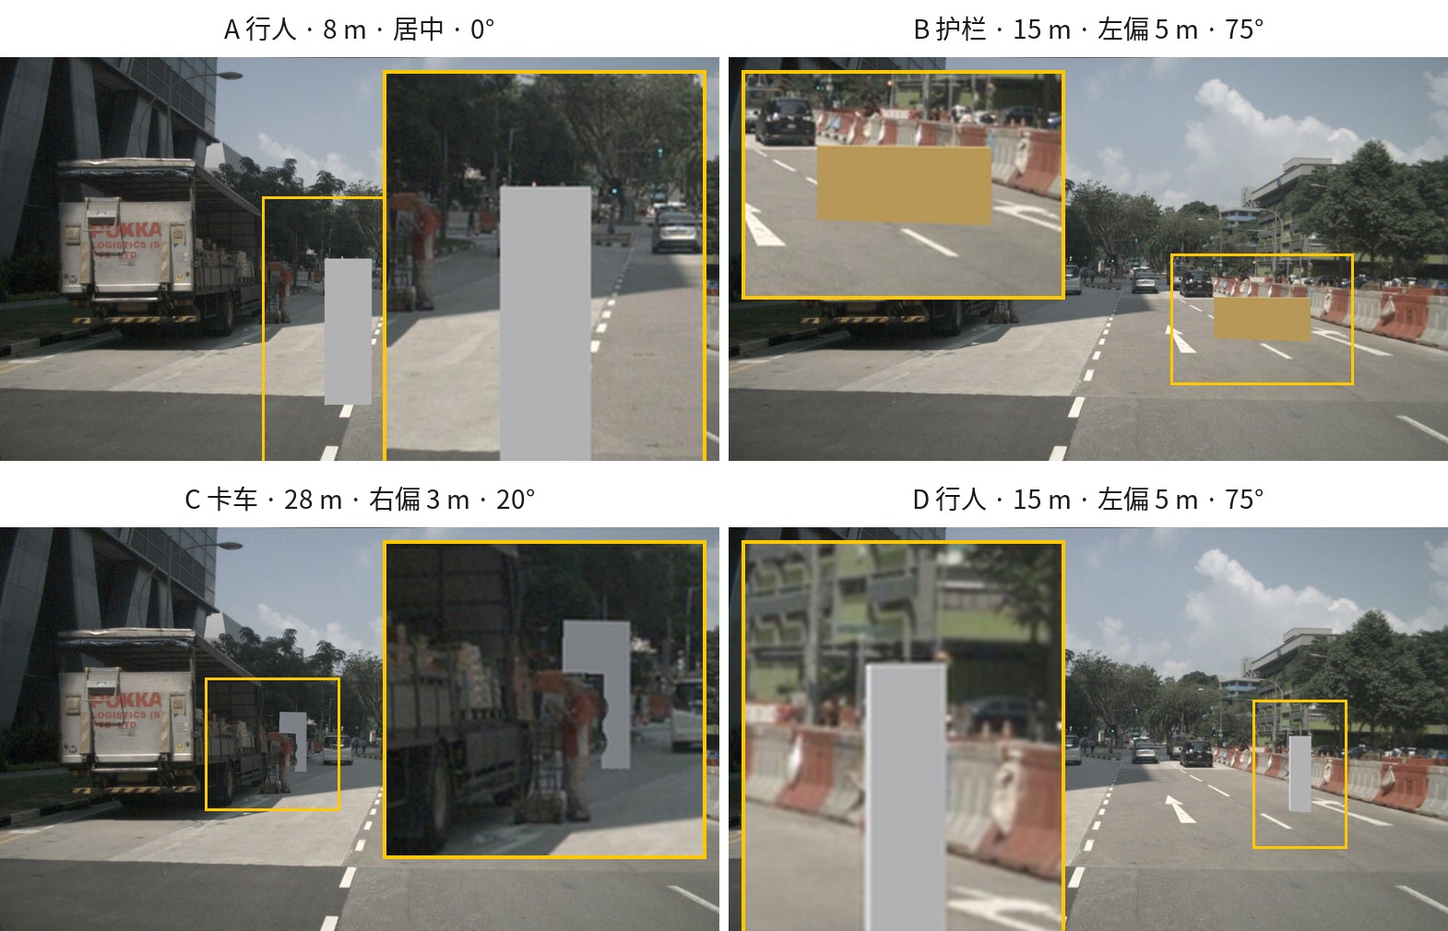
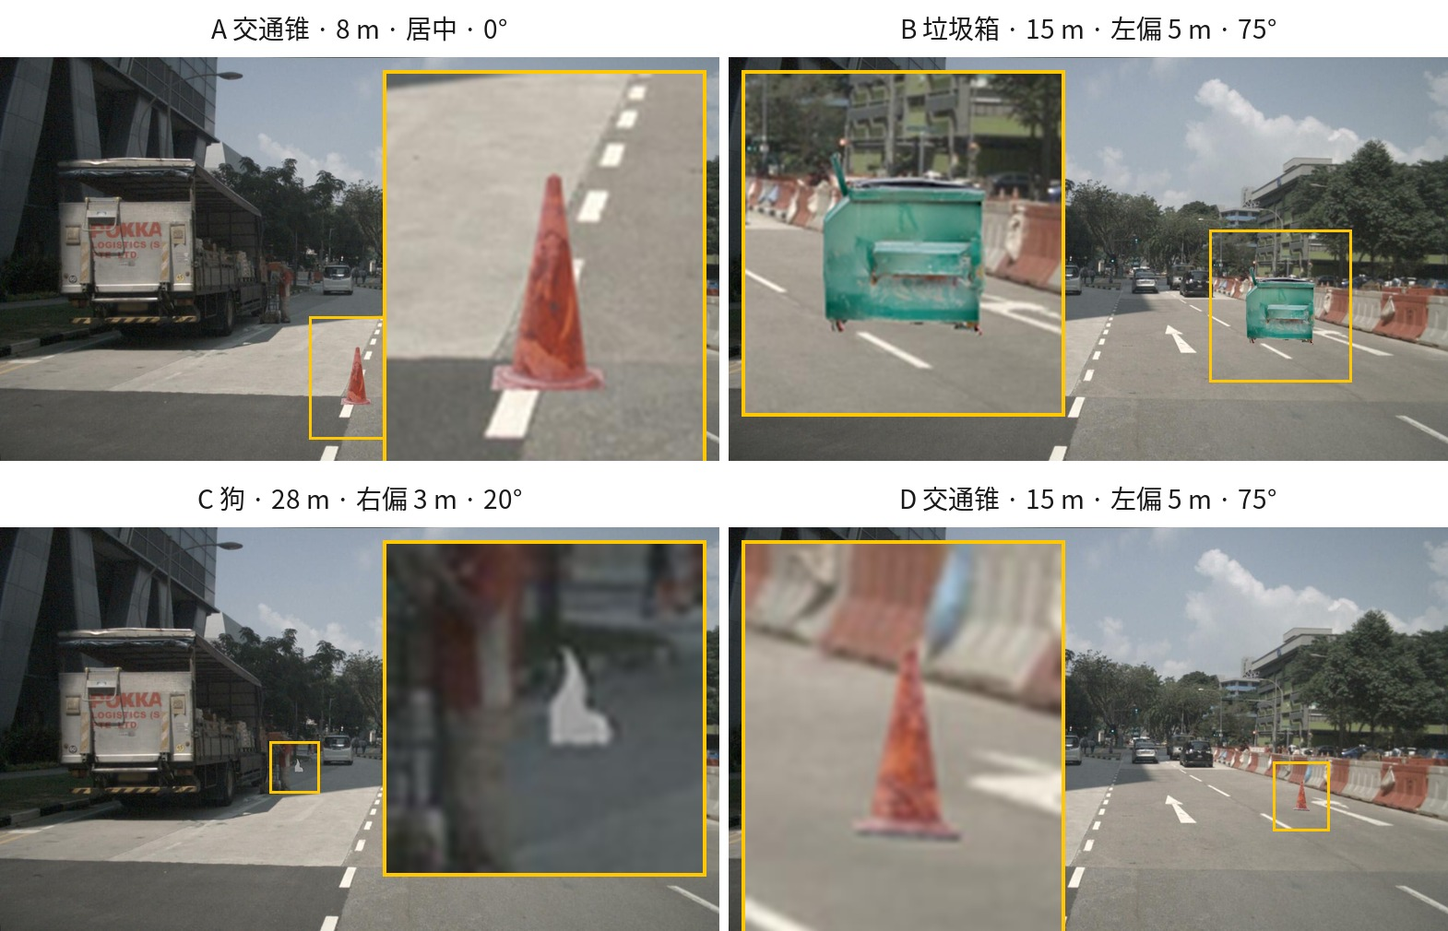
Docs: 配图与 UI 截图改用真实模型，多体现类别
assets/models/ 里有 12 个真实模型了，但文档配图和 UI 截图还在用合成方块
（demo_pedestrian/barrier/truck），类别只有行人/护栏/卡车三种。改成用真实模型：

配图（make_doc_fixtures）：
- fig5 四组对比 → A/D 交通锥（movable_object.trafficcone）、
  B 垃圾箱（movable_object.pushable_pullable）、C 狗（animal）
  —— 三个不同类目，全是真实网格
- fig3 同帧双目标 → 皮卡（vehicle.car）+ 垃圾桶（movable_object.pushable_pullable）
- 目录名跟着改（cmpA_cone_near 等），出图命令由脚本打印

UI 截图（make_ui_screenshots）：插入三个目标（交通锥 / 狗 / 垃圾桶），
新增 ui_three.png，README 的演示图改用它——一张图里能看到三个类别。

数字全链刷新（模型变了，M10 与 §3.2 必须跟着改）：
- M10：点 546/2464/8/164、峰强 140/100/46/140（= k·ρ，正好跟 albedo 成比例）、
  C 遮挡 75.7%。均强不再可比（三个模型形状朝向不同），结论改用峰强表述。
- §3.2：fig3 现在只有 CAM_FRONT（垃圾桶在左偏 13°，够不到左相机 +20° 视锥），
  num_lidar_pts 3670/2657。
- §3.4：图注与强度数字同步。

另：README 的模型清单去掉「水泥护栏」这个不实描述（Modelo_Blanes 的 LVIS
类目是 jersey，但包围盒是竖高的，形状待核）。

diff --git a/scripts/make_doc_fixtures.py b/scripts/make_doc_fixtures.py
@@ -64,15 +64,17 @@ def build_fixtures(models: Path, assets: Path) -> dict:
         "fig_temple": _one(temple, 3.0, 0.60, "movable_object.anomaly",
                            (12.0, 0.0), 30.0),
         # fig5 — A/D share a model at two ranges; B and D share a pose so the
-        # only difference is the object itself
-        "cmpA_pedestrian_near": _one(models / "demo_pedestrian.glb", 1.75, 0.70,
-                                    "human.pedestrian.adult", (8.0, 0.0), 0.0),
-        "cmpB_barrier_mid": _one(models / "demo_barrier.glb", 2.20, 0.50,
-                                 "movable_object.barrier", (15.0, -5.0), 75.0),
-        "cmpC_truck_far": _one(models / "demo_truck.glb", 6.00, 0.25,
-                               "vehicle.truck", (28.0, 3.0), 20.0),
-        "cmpD_pedestrian_mid": _one(models / "demo_pedestrian.glb", 1.75, 0.70,
-                                    "human.pedestrian.adult", (15.0, -5.0), 75.0),
+        # only difference is the object itself. Real Objaverse models (not the
+        # synthetic boxes) so the figure shows distinct road categories.
+        "cmpA_cone_near": _one(assets / "traffic_cone_02.glb", 0.70, 0.70,
+                               "movable_object.trafficcone", (8.0, 0.0), 0.0),
+        "cmpB_dumpster_mid": _one(assets / "Detroit_Dumpster.glb", 2.00, 0.50,
+                                  "movable_object.pushable_pullable",
+                                  (15.0, -5.0), 75.0),
+        "cmpC_dog_far": _one(assets / "DOG.glb", 1.20, 0.25,
+                             "animal", (28.0, 3.0), 20.0),
+        "cmpD_cone_mid": _one(assets / "traffic_cone_02.glb", 0.70, 0.70,
+                              "movable_object.trafficcone", (15.0, -5.0), 75.0),
         # fig6 — same mesh, same pose, only the export-time axis handling differs
         "axis_ok": _one(models / "demo_axis_ok.glb", 1.75, 0.70,
                         "human.pedestrian.adult", (9.0, 1.0), 30.0),
@@ -83,8 +85,8 @@ def build_fixtures(models: Path, assets: Path) -> dict:
         "fig_two_final": {"objects": [
             {"model_cfg": _model(temple, 3.0, 0.60, "vehicle.car"),
              "placement_cfg": _place((13.0, -2.5), 25.0)},
-            {"model_cfg": _model(models / "demo_barrier.glb", 2.20, 0.50,
-                                 "movable_object.barrier"),
+            {"model_cfg": _model(assets / "Trashcan_Low.glb", 1.20, 0.50,
+                                 "movable_object.pushable_pullable"),
              "placement_cfg": _place((9.5, 2.2), 85.0)},
         ]},
     }
@@ -135,10 +137,10 @@ def main():
     print("  python scripts/make_doc_figs.py \\")
     print("    --single data/outputs/p0/fig_temple \\")
     print("    --two    data/outputs/p0/fig_two_final \\")
-    for key, label in (("cmpA_pedestrian_near", "A 行人 · 8 m · 居中 · 0°"),
-                       ("cmpB_barrier_mid", "B 护栏 · 15 m · 左偏 5 m · 75°"),
-                       ("cmpC_truck_far", "C 卡车 · 28 m · 右偏 3 m · 20°"),
-                       ("cmpD_pedestrian_mid", "D 行人 · 15 m · 左偏 5 m · 75°")):
+    for key, label in (("cmpA_cone_near", "A 交通锥 · 8 m · 居中 · 0°"),
+                       ("cmpB_dumpster_mid", "B 垃圾箱 · 15 m · 左偏 5 m · 75°"),
+                       ("cmpC_dog_far", "C 狗 · 28 m · 右偏 3 m · 20°"),
+                       ("cmpD_cone_mid", "D 交通锥 · 15 m · 左偏 5 m · 75°")):
         print(f'    --compare "{label}=data/outputs/p0/{key}" \\')
     print("    --axis   data/outputs/p0/axis_ok data/outputs/p0/axis_bad")
 

diff --git a/scripts/make_ui_screenshots.py b/scripts/make_ui_screenshots.py
@@ -174,20 +174,26 @@ def main():
 
         d.shot(OUT / "ui_overview.png")       # 首屏：素材面板 + 画布 + 控件
 
-        # 拖皮卡缩略图到路面 -> 插入第 1 个目标（1040,600 是实测地面估计准的点）
-        d.js(DROPOnto, [".thumb[data-model='assets/models/temple.glb']", 1040, 600])
-        wait_n(d, 1, "pickup inserted")
+        # 拖交通锥到路面 -> 插入第 1 个目标（1040,600 是实测地面估计准的点）
+        d.js(DROPOnto, [".thumb[data-model='assets/models/traffic_cone_02.glb']", 1040, 600])
+        wait_n(d, 1, "cone inserted")
         time.sleep(0.8)
         d.shot(OUT / "ui_insert.png")
 
-        # 再拖一个护栏 -> 多目标
-        d.js(DROPOnto, [".thumb[data-model='data/models/demo_barrier.glb']", 760, 640])
-        wait_n(d, 2, "barrier inserted")
+        # 再拖一只狗 -> 两个不同类别的目标
+        d.js(DROPOnto, [".thumb[data-model='assets/models/DOG.glb']", 760, 640])
+        wait_n(d, 2, "dog inserted")
         time.sleep(0.8)
         d.shot(OUT / "ui_two.png")
 
-        # 移动模式：把护栏拖到右边（抓取偏移：车头不跳到车身中心）
-        cu, cv = centroid(d, 1, "barrier")
+        # 第三个：垃圾桶 —— 三个不同类别同框（README 用这张）
+        d.js(DROPOnto, [".thumb[data-model='assets/models/Trashcan_Low.glb']", 900, 665])
+        wait_n(d, 3, "trashcan inserted")
+        time.sleep(0.8)
+        d.shot(OUT / "ui_three.png")
+
+        # 移动模式：把狗拖到右边（抓取偏移：抓住哪点就跟着哪点）
+        cu, cv = centroid(d, 1, "dog")
         d.js(PEV, ["pointerdown", cu, cv, False])
         for x in range(int(cu) + 40, int(cu) + 221, 45):
             d.js(PEV, ["pointermove", x, cv - 10, False])
@@ -197,7 +203,7 @@ def main():
         d.shot(OUT / "ui_move.png")
 
         # 旋转模式：拖 X 改偏航，Shift+拖 改滚转
-        cu, cv = centroid(d, 1, "barrier")
+        cu, cv = centroid(d, 1, "dog")
         d.js("document.getElementById('modeRotate').click(); return true;")
         time.sleep(0.2)
         d.js(PEV, ["pointerdown", cu, cv, False])

diff --git a/docs/measurements.md b/docs/measurements.md
@@ -248,50 +248,53 @@ visible_coverage 均值 0.9704
 
 ## M10 · 不同位置 / 方位 / 类目 / 材质的效果比对
 
-**方法**：用 `scripts/make_demo_models.py` 生成三个形态与基色不同的演示模型，
-在 `sample_index=0` 上做 4 组单目标注入。**B 与 D 位置朝向完全相同**，只换模型与类目，
-用来单独隔离「目标本身」的影响；A 与 D 同一模型，只改距离。
+**方法**：用 `assets/models/` 里**真实的 Objaverse 模型**（不是合成方块），
+在 `sample_index=0` 上做 4 组单目标注入，覆盖三个不同 nuScenes 类目。
+**B 与 D 位置朝向完全相同**，只换模型与类目，用来单独隔离「目标本身」的影响；
+A 与 D 同一模型，只改距离。
 
 ```
-模型                              extent(x=长,y=宽,z=高)     baseColor
-demo_pedestrian.glb               (0.45, 0.55, 1.75)        (0.80, 0.80, 0.85)
-demo_barrier.glb                  (2.20, 0.40, 1.00)        (0.90, 0.45, 0.10)
-demo_truck.glb                    (6.00, 2.40, 3.00)        (0.25, 0.27, 0.30)
+模型                              raw extents        最长边   目标尺寸 dim   类目
+traffic_cone_02.glb               (1.5, 1.5, 2.9)     2.9      0.70      movable_object.trafficcone
+Detroit_Dumpster.glb              (1.5, 2.1, 1.8)     2.1      2.00      movable_object.pushable_pullable
+DOG.glb                           (2.9, 2.0, 2.3)     2.9      1.20      animal
 ```
 
 **原始输出**
 
 ```
-用例                   类目                     albedo   gt size(w,l,h)  LiDAR点  均强 峰强  alpha   可见   遮挡%   覆盖   IoU  相机
---------------------------------------------------------------------------------------------------------------
-A 行人·近距·居中·0°     human.pedestrian.adult    0.70  [0.55,0.45,1.75]   4423   137  140  35751  34791   2.7%  0.991 0.990   1
-B 护栏·中距·左偏·75°    movable_object.barrier    0.50  [0.40,2.20,1.00]   2553    96  100  20836  20836   0.0%  1.000 0.982   1
-C 卡车·远距·右偏·20°    vehicle.truck             0.25  [2.40,6.00,3.00]    476    49   49  21809   4907  77.5%  1.000 0.990   1
-D 行人·中距·左偏·75°    human.pedestrian.adult    0.70  [0.55,0.45,1.75]   1016   139  140   8526   8525   0.0%  0.968 0.989   1
+用例                   类目                          albedo  gt size(w,l,h)   LiDAR点  均强 峰强  alpha   可见   遮挡%   覆盖   IoU
+------------------------------------------------------------------------------------------------------------------------
+A 交通锥·近距·居中·0°    movable_object.trafficcone     0.70  [0.37,0.37,0.70]     546   106  140   4630   4126  10.9%  0.998 0.941
+B 垃圾箱·中距·左偏·75°   movable_object.pushable_pullable 0.50 [2.00,1.45,1.74]   2464    90  100  20917  20823   0.4%  1.000 0.883
+C 狗·远距·右偏·20°       animal                        0.25  [0.83,1.20,0.92]       8    30   46   1266    308  75.7%  1.000 0.737
+D 交通锥·中距·左偏·75°   movable_object.trafficcone     0.70  [0.37,0.37,0.70]     164   115  140   1198   1198   0.0%  0.994 0.937
 
 放置（ego 系，米）：A [8,0] · B/D [15,-5] · C [28,3]；yaw：A 0° · B/D 75° · C 20°
 ```
 
 ![四组效果对比](summary/figs/fig5_case_comparison.jpg)
 
-*每个用例的黄框已放大。A 近距行人（站立、轮廓大）；B 中距护栏（长条形、偏转 75°）；C 远距卡车——
-被前方真实车辆挡住 77.5%，只剩贴着真实卡车的窄条；D 与 B 同位置同朝向、只换模型，
+*每个用例的黄框已放大。A 近距交通锥（轮廓清晰）；B 中距垃圾箱（偏转 75°）；C 远距的狗——
+被前方真实车辆挡住 **75.7%**，只剩贴着真实卡车的窄条；D 与 B 同位置同朝向、只换模型，
 用来隔离目标本身的影响。*
 
 **四组结论**
 
 1. **类目与尺寸各自独立落库**：`gt size` 与类目名一一对应，不同目标可用不同 nuScenes 类目
-   （`human.pedestrian.adult` / `movable_object.barrier` / `vehicle.truck`）。
-2. **点云强度严格跟随 `albedo`**：三档 albedo 0.70 / 0.50 / 0.25 →
-   均强 137–139 / 96 / 49，比例与 albedo 一致。
-   直接迎着传感器的表面峰强 = `k·ρ` = 200 × 0.70 = 140。
+   （`movable_object.trafficcone` / `movable_object.pushable_pullable` / `animal`）——
+   三组都是真实模型，不再是合成方块。
+2. **点云强度跟随 `albedo`**：三档 albedo 0.70 / 0.50 / 0.25 →
+   **峰强** 140 / 100 / 46，正好是 `k·ρ` = 200 × ρ。
+   均强（106 / 90 / 30）不严格成比例，因为三个模型的形状与朝向不同、
+   平均入射角不一样——要比强度就比峰强。
 3. **距离是点数与轮廓的主因**：A 与 D 同模型同 albedo，8 m → 15 m 使注入点
-   4423 → 1016（−77%）、轮廓 35751 → 8526 px（−76%）。
-4. **B 与 D 隔离出「目标本身」的影响**：同位置同朝向，护栏（2.2×0.4×1.0）比行人
-   （0.55×0.45×1.75）点数多 2.6 倍、轮廓大 2.4 倍，因为迎面截面积更大。
-5. **遮挡按真实几何生效**：C 的 6 m 卡车在 28 m 处被前方真实车辆挡住 **77.5%** 的目标像素，
-   而 A/B/D 几乎未被遮挡（0–2.7%）。四组覆盖率均 ≥0.996、IoU ≥0.978。
-6. **同类目/同模型的两组（A、D）强度完全相同（139/140）**，说明强度与距离无关
+   546 → 164（−70%）、轮廓 4630 → 1198 px（−74%）。
+4. **B 与 D 隔离出「目标本身」的影响**：同位置同朝向，垃圾箱（2.0×1.45×1.74）比
+   交通锥（0.37×0.37×0.70）点数多 15 倍、轮廓大 17 倍，因为迎面截面积大得多。
+5. **遮挡按真实几何生效**：C 的狗在 28 m 处被前方真实车辆挡住 **75.7%** 的目标像素，
+   而 A/B/D 只有 0–10.9%。四组覆盖率均 ≥0.994、IoU ≥0.737（全部 ≥0.5 阈值）。
+6. **同类目/同模型的两组（A、D）峰强完全相同（140/140）**，说明强度与距离无关
    ——这是 Lambertian 模型的固有属性，见下条。
 
 **顺带发现：点云强度不随距离衰减**
@@ -305,6 +308,8 @@ Z-up 坐标会被原样写进 Y-up 的 glTF，于是所有合规导入器（含 
 模型变成「躺倒」。`make_demo_models.py` 现在显式做 `(x,y,z)→(x,z,-y)` 后再导出；
 同时约定 **x=长、y=宽、z=高** 以匹配 nuScenes 的 `[w,l,h]` 语义，
 否则长轴落在 y 上会让标注读成「很短很宽」的目标。
+（这条约定对**下载来的模型不成立**：`temple.glb`、`Detroit_Dumpster.glb` 的长轴就在 y 上，
+标注因此读作「宽」。几何自洽、不影响注入，只是语义反了——见 `assets/models/README.md`。）
 
 ---
 

diff --git a/docs/placement-ui.md b/docs/placement-ui.md
@@ -22,44 +22,49 @@ python scripts/annotate_ui.py --port 9000 --open
 
 ![首屏](summary/figs/ui_overview.png)
 
-**图 1 · 首屏**：左侧**素材面板**（模型缩略图 + 类目 chip，都可拖）、中间画布、右侧控件。
-此时画布上没有目标——目标是拖进来的。
+**图 1 · 首屏**：左侧**素材面板**（12 个入库模型的缩略图 + 23 个类目 chip，都可拖）、
+中间画布、右侧控件。此时画布上没有目标——目标是拖进来的。
 
 ![拖缩略图插入](summary/figs/ui_insert.png)
 
-**图 2 · 拖缩略图插入**：把左侧的模型缩略图拖到路面上松手，一个目标就插进去了
+**图 2 · 拖缩略图插入**：把左侧的交通锥缩略图拖到路面上松手，一个目标就插进去了
 （黄色线框）。松手时后端用同一条 `anchor.build_gt` 摆好位置，线框与将来渲染的位置一致。
 
 ![拖第二个目标](summary/figs/ui_two.png)
 
-**图 3 · 多目标**：再拖一个进去就是第二个——两个线框都在画布上，右下角显示「目标数 2」。
-侧栏「当前目标」显示的是最后插入/选中的那个（这里是 `demo_barrier.glb`），
-其余控件都绑定到它。
+**图 3 · 多目标**：再拖一只狗进去——两个**不同类别**的线框同屏，右下角显示「目标数 2」。
+侧栏「当前目标」显示最后插入/选中的那个，其余控件都绑定到它。
+
+![三个类别同框](summary/figs/ui_three.png)
+
+**图 4 · 三个类别同框**：交通锥（`movable_object.trafficcone`）+ 狗（`animal`）+
+垃圾桶（`movable_object.pushable_pullable`）——三个真实模型、三个类目，各自独立位姿与
+`target_max_dim_m`，一次渲染全部。
 
 ![移动模式](summary/figs/ui_move.png)
 
-**图 4 · 移动模式拖位置**：按住护栏拖到右边。用的是**抓取偏移**——抓住车身的哪个点，
-拖动过程中那个点就一直跟着光标，不会跳到车身中心。
+**图 5 · 移动模式拖位置**：按住狗拖到右边。用的是**抓取偏移**——抓住身体的哪个点，
+拖动过程中那个点就一直跟着光标，不会跳到身体中心。
 
 ![旋转模式](summary/figs/ui_rotate.png)
 
-**图 5 · 旋转模式拖姿态**：拖 X 改偏航、拖 Y 改俯仰、按住 Shift 拖改滚转。
-护栏横跨车道的姿态就是这么拖出来的（图里是偏航 + 滚转叠加后的结果）。
+**图 6 · 旋转模式拖姿态**：拖 X 改偏航、拖 Y 改俯仰、按住 Shift 拖改滚转。
+狗的朝向就是这么拖出来的（图里是偏航 + 滚转叠加后的结果）。
 
 ![选中目标](summary/figs/ui_select.png)
 
-**图 6 · 选中目标**：点中某个线框，它变粗变亮（选中态），侧栏控件切到它。
+**图 7 · 选中目标**：点中某个线框，它变粗变亮（选中态），侧栏控件切到它。
 命中测试用服务端返回的 8 个投影角点取 2D 凸包。
 
 ![点天空](summary/figs/ui_sky.png)
 
-**图 7 · 点天空会被明确拒绝**：射线与估计的地面平面没有交点，信息区给出
+**图 8 · 点天空会被明确拒绝**：射线与估计的地面平面没有交点，信息区给出
 「选点失败（可能点到了地平线以上）」，而不是把目标丢到某个错位置上。
 
 ![渲染结果](summary/figs/ui_result.png)
 
-**图 8 · 渲染完成**：**两个目标一次渲染**。结果图替换整块画布（点图可退回预览）。
-日志里能看到 `objects=2 dropped=-`——被真实场景挡住的目标会被逐个丢弃并报出来，
+**图 9 · 渲染完成**：**三个目标一次渲染**。结果图替换整块画布（点图可退回预览）。
+日志里能看到 `objects=3 dropped=-`——被真实场景挡住的目标会被逐个丢弃并报出来，
 不会让整次渲染失败。
 
 ---
@@ -75,7 +80,7 @@ python scripts/annotate_ui.py --port 9000 --open
 3. **移动**（默认模式）：拖动目标改位置；点空白处把选中目标放到那里。
 4. **旋转**：切到「旋转」模式，拖 X 改偏航、拖 Y 改俯仰、Shift+拖 改滚转。
 5. **选中 / 删除**：点线框选中，点「删除目标」移除。
-6. **渲染**：实测 16 采样下两个目标约 5–8 秒（其中 Blender 约 4–6 秒），
+6. **渲染**：实测 16 采样下三个目标约 6–10 秒（其中 Blender 约 5–7 秒），
    采样数调大就更慢更干净。只渲染**视锥内看得到目标**的那几路相机——
    单目标通常只有 `CAM_FRONT`，这是 frustum 裁剪，不是只渲染了一路。
 
@@ -179,7 +184,7 @@ python scripts/make_ui_screenshots.py      # -> docs/summary/figs/ui_*.png
 
 脚本自己拉起 UI 服务和 geckodriver，用 WebDriver 的 HTTP 接口驱动 headless Firefox
 （不引入 selenium），派发与真人相同的 pointer / drag 事件：
-拖缩略图插入两个目标 → 拖动改位置 → 切旋转模式拖姿态 → 点线框选中 → 点天空看报错 → 渲染。
+拖缩略图插入三个目标 → 拖动改位置 → 切旋转模式拖姿态 → 点线框选中 → 点天空看报错 → 渲染。
 
 因为它走的是**真实交互**，所以同时是这个 UI 的**端到端冒烟测试**：
 任何一步 JS 报错、预览没返回、缩略图没加载，都会让它卡在 `wait_js` 超时退出。

diff --git a/docs/summary/README.md b/docs/summary/README.md
@@ -68,16 +68,18 @@
 
 ![批量双目标](figs/fig3_batch_two_objects.jpg)
 
-**图 3 · 同帧 2 目标、不同类目**（两个黄框各配放大内嵌）：蓝色皮卡（`vehicle.car`，`size=[3.00, 1.34, 1.12]`）
-与橙色护栏（`movable_object.barrier`，`size=[0.40, 2.20, 1.00]`）共用同一套 z-buffer
-与一次 Blender job，各自带独立类目落库。
+**图 3 · 同帧 2 目标、不同类目**（两个黄框各配放大内嵌）：蓝色皮卡（`vehicle.car`，
+`size=[3.00, 1.34, 1.12]`，`assets/models/temple.glb`）与垃圾桶
+（`movable_object.pushable_pullable`，`size=[0.89, 0.89, 1.20]`，`Trashcan_Low.glb`）
+共用同一套 z-buffer 与一次 Blender job，各自带独立类目落库。
+两者都只被 `CAM_FRONT` 看到（垃圾桶在 ego 左偏 13°，够不到左相机 +20° 的视锥边缘）。
 
-| 校验项 | CAM_FRONT | CAM_FRONT_LEFT |
-|---|---|---|
-| 点投影 ⊂ α 覆盖率 | 0.998 | 1.000 |
-| 3D 框投影 IoU | 0.960 | 0.700（触边豁免） |
-| 被遮挡像素 / 无理由遮挡 | 2274 / **0** | 0 / **0** |
-| `num_lidar_pts` | 3670 | 5977 |
+| 校验项 | CAM_FRONT |
+|---|---|
+| 点投影 ⊂ α 覆盖率 | 0.996 |
+| 3D 框投影 IoU | 0.904 |
+| 被遮挡像素 / 无理由遮挡 | 610 / **0** |
+| `num_lidar_pts` | 3670（皮卡）/ 2657（垃圾桶） |
 
 批量放置可复现：`np.random.default_rng([seed, sample_index])`。
 
@@ -91,11 +93,15 @@
 
 ![四组效果对比](figs/fig5_case_comparison.jpg)
 
-**图 5**：同一帧上分别注入 4 个目标。A 与 D 用同一模型、只改距离（8 m / 15 m），
-隔离出距离的影响；B 与 D 同位置同朝向、只换模型与类目，隔离出目标本身的影响；
-C 的 6 m 卡车被前方真实车辆挡住 **77.5%** 的目标像素（放大框里只剩贴着真实卡车的窄条）。
+**图 5**：同一帧上分别注入 4 个目标，用的是 `assets/models/` 里的**真实模型**、
+覆盖三个不同类目——A/D 交通锥（`movable_object.trafficcone`）、B 垃圾箱
+（`movable_object.pushable_pullable`）、C 狗（`animal`）。
+A 与 D 用同一模型、只改距离（8 m / 15 m），隔离出距离的影响；
+B 与 D 同位置同朝向、只换模型与类目，隔离出目标本身的影响；
+C 的狗在 28 m 处被前方真实车辆挡住 **75.7%** 的目标像素（放大框里只剩窄条）。
 
-点云强度严格跟随 `albedo`：A/D (0.70) → 137 / 139，B (0.50) → 96，C (0.25) → 49。
+点云**峰强**跟随 `albedo`：A/D (0.70) → 140 / 140，B (0.50) → 100，C (0.25) → 46
+（正好是 `k·ρ` = 200 × ρ；均强因三组形状朝向不同而不可比）。
 完整数据与结论见 [`docs/measurements.md`](../measurements.md) 的 M10。
 
 ---

diff --git a/README.md b/README.md
@@ -72,8 +72,8 @@ data/
 `assets/` 是入库的输入资产，`data/` 全部是运行期数据、不进版本控制、克隆后并不存在。
 每个子目录的内容、产生者、体积构成与清理方式见 **[`docs/data-layout.md`](docs/data-layout.md)**。
 
-`assets/models/` 自带 12 个可注入模型（交通锥、水泥护栏、垃圾桶、垃圾箱、停车牌、
-路牌、电线杆、邮筒、邮箱、猫、狗，以及皮卡 `temple.glb`），许可与来源见
+`assets/models/` 自带 12 个可注入模型（交通锥、垃圾桶、垃圾箱、停车牌、路牌、
+电线杆、邮筒、邮箱、猫、狗、护栏类，以及皮卡 `temple.glb`），许可与来源见
 **[`assets/models/README.md`](assets/models/README.md)**。要加自己的模型就丢进该目录，
 再改 `configs/*.yaml` 的 `model.path`（单目标）或 `models[].path`（批量模型池）。
 支持 `.glb / .gltf / .obj / .fbx / .ply`（glTF 的 Y-up 会按 Blender 导入规则自动换算，
@@ -120,9 +120,10 @@ python scripts/run_batch.py --config configs/batch.yaml --skip-export   # 只注
 python scripts/annotate_ui.py --open    # -> http://127.0.0.1:8765
 ```
 
-![放置 UI：拖缩略图插入目标](docs/summary/figs/ui_insert.png)
+![放置 UI：三个类别同框](docs/summary/figs/ui_three.png)
 
-*左侧素材面板把模型缩略图**拖进画布**即插入目标（黄线框），右侧控件绑定当前目标。*
+*左侧素材面板把模型缩略图**拖进画布**即插入目标（黄线框）——这里是交通锥、狗、*
+*垃圾桶三个不同类别的真实模型，各自独立位姿，一次渲染全部。右侧控件绑定当前目标。*
 *「时间帧」一栏的 `◀ ▶` 逐帧翻 nuScenes 关键帧，下拉里是「场景 · 时刻」的全部 404 帧。*
 
 在相机图上**直接操纵**：拖缩略图或类目 chip 进画布插入目标（拖几个就是几个，多目标一次
